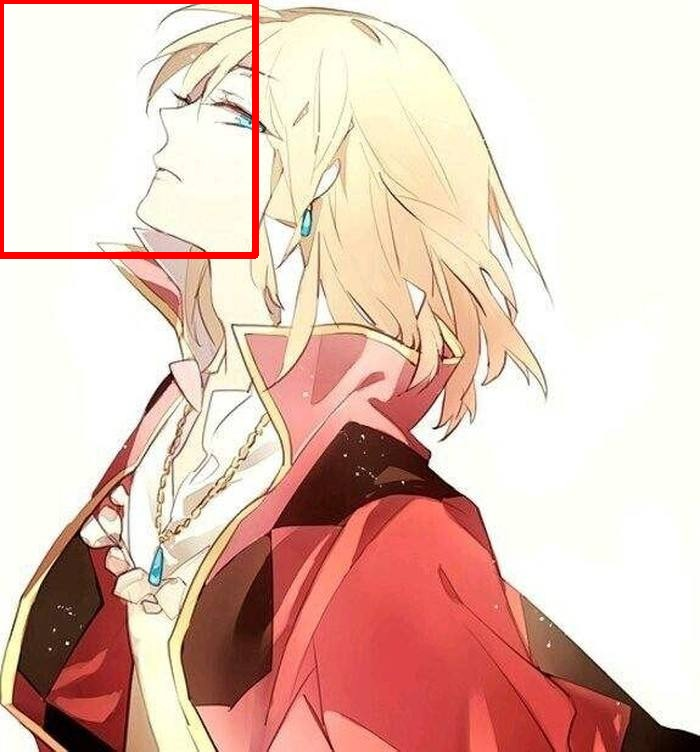
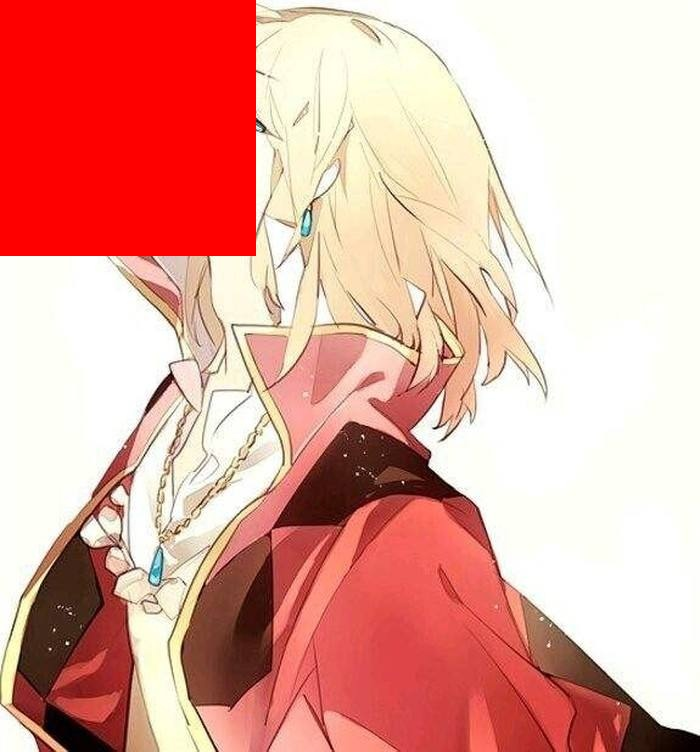
n

Changed region(s): [[0.0, 0.0, 0.39, 0.367]]

diff --git a/hello.py b/hello.py
@@ -3,7 +3,7 @@ import cv2
 
 img=cv2.imread('haer.jpg',1)
 
-img=cv2.rectangle(img,(0,0),(255,255),(0,0,255),5)
+img=cv2.rectangle(img,(0,0),(255,255),(0,0,255),-1)
 
 print(img)
 
